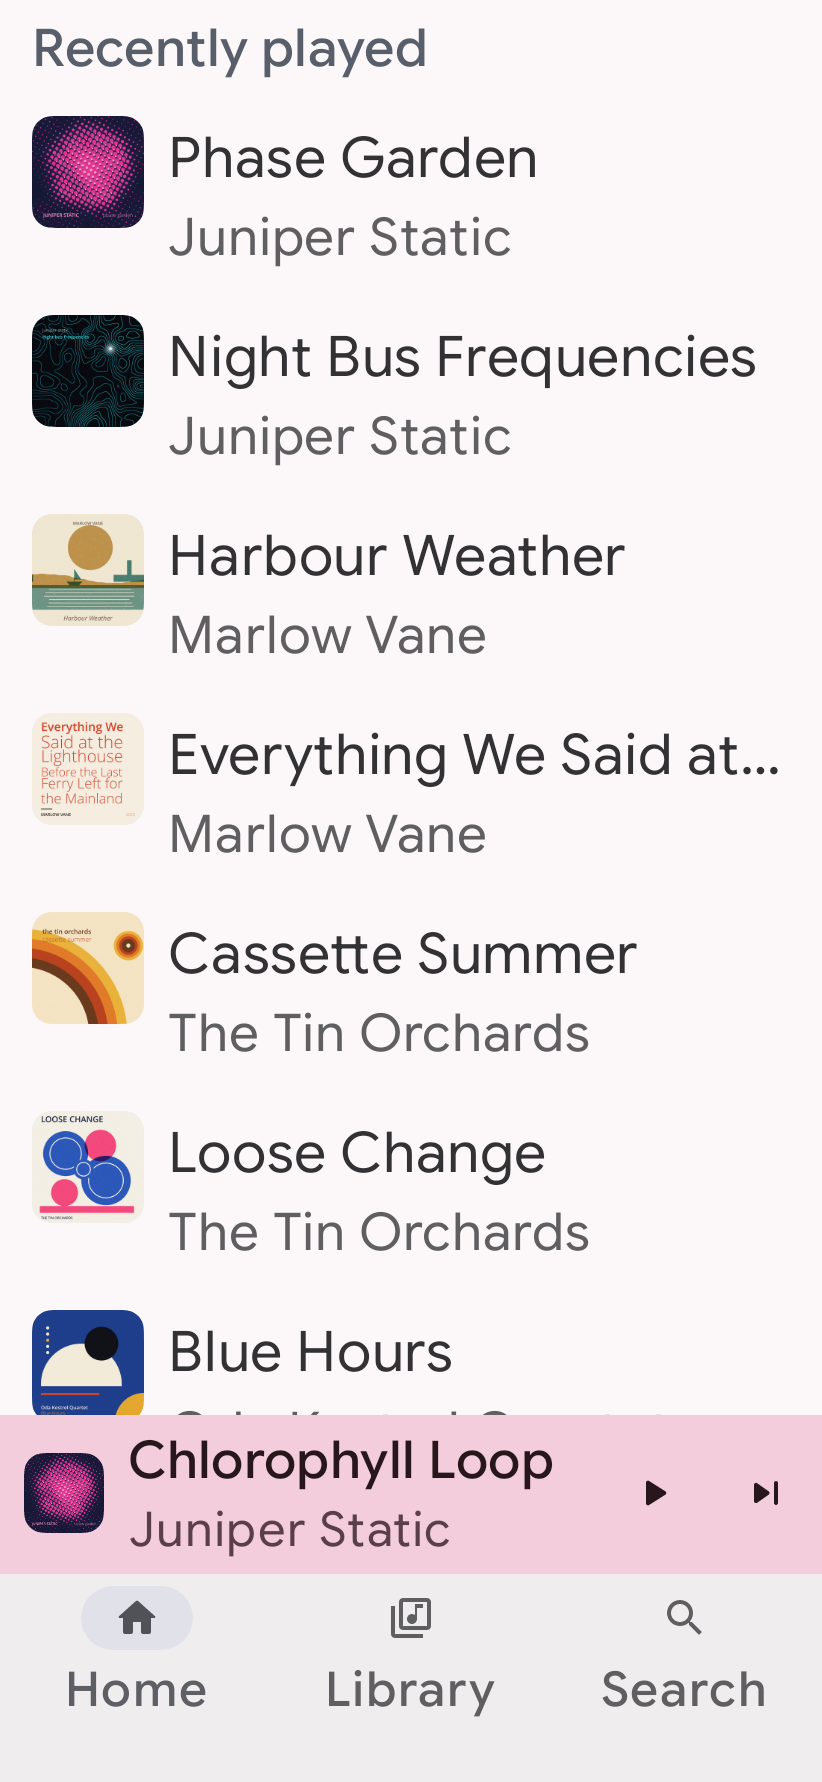
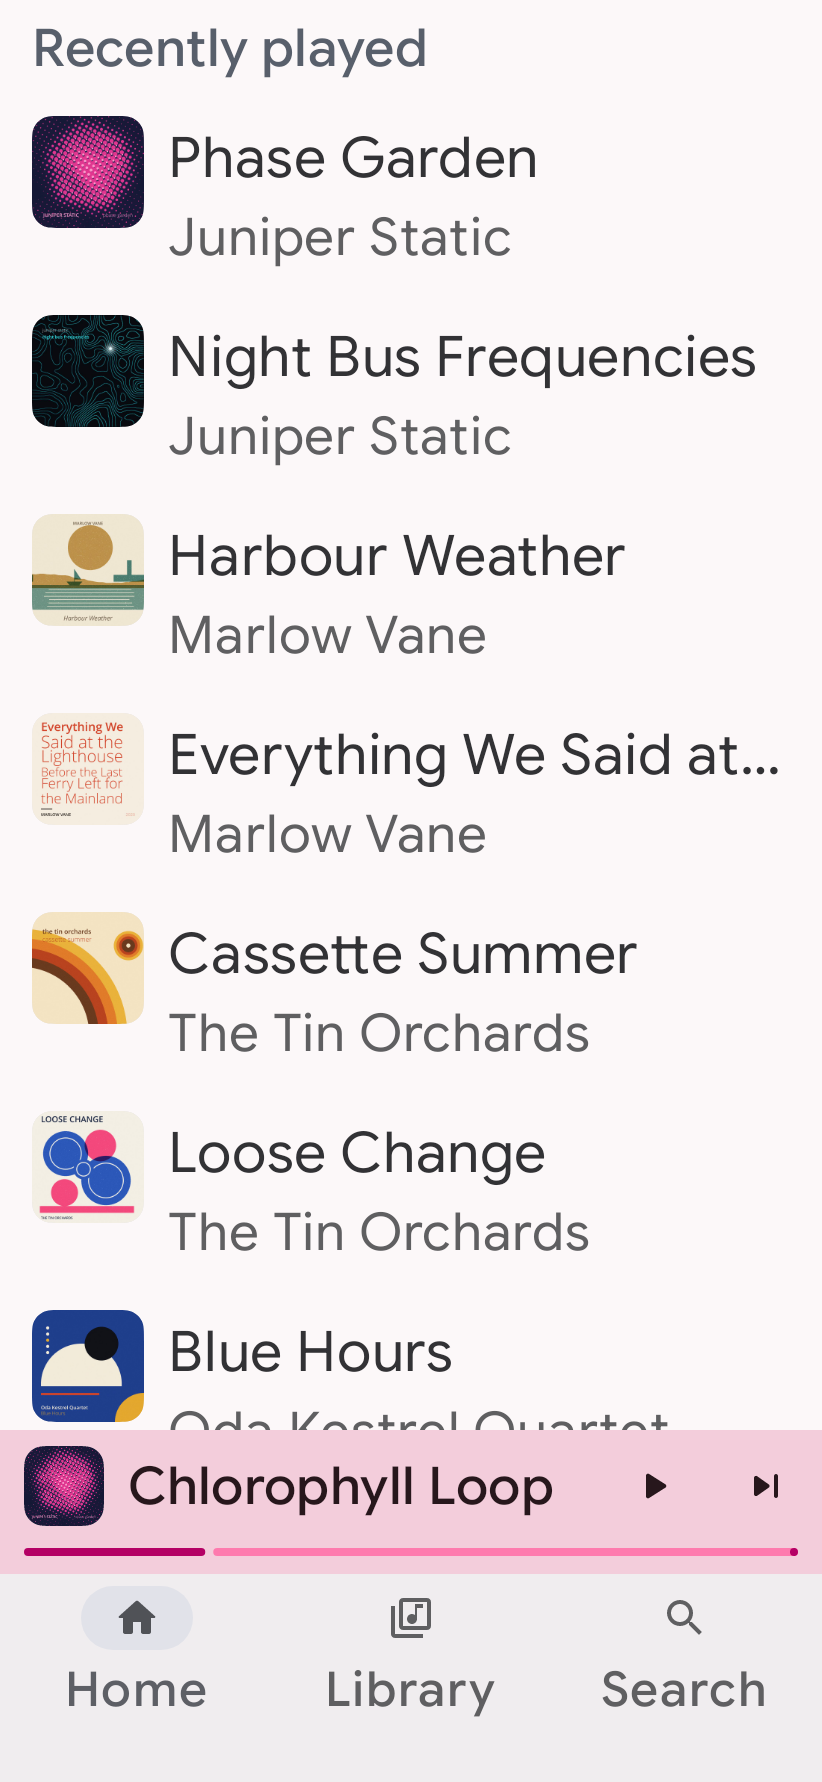
fix(player): the mini player keeps one height at large text, showing the title alone (#730)
s2MiniPlayerHeight() grew the dock by 36sp converted as one size, but Android 14+ scales text
nonlinearly, so at 200% the dock grew by 7dp while the two lines grew by about 26dp: the artist line
or the progress wave was cut. The dock is a fixed S2MiniPlayerHeight again, and from
S2LargeTextFontScale up the bar shows the title only and speaks "title, artist" (or the cast line).

LargeTextTest checks at fontScale 2 that the mini player keeps its height and draws its title whole,
and that Now Playing's elapsed and remaining times draw whole on a tall and a short phone.
Re-recorded docs/design/shell/phone-large-text-mini.png.

Changed region(s): [[0.0, 0.7716, 1.0, 0.8951]]

diff --git a/android/designsystem/src/main/java/com/simplecityapps/shuttle/designsystem/component/MiniPlayer.kt b/android/designsystem/src/main/java/com/simplecityapps/shuttle/designsystem/component/MiniPlayer.kt
@@ -21,19 +21,19 @@ import androidx.compose.ui.Modifier
 import androidx.compose.ui.graphics.Color
 import androidx.compose.ui.graphics.lerp
 import androidx.compose.ui.graphics.vector.ImageVector
-import androidx.compose.ui.platform.LocalDensity
 import androidx.compose.ui.res.stringResource
+import androidx.compose.ui.semantics.contentDescription
+import androidx.compose.ui.semantics.semantics
 import androidx.compose.ui.text.style.TextOverflow
 import androidx.compose.ui.tooling.preview.Preview
-import androidx.compose.ui.unit.Dp
 import androidx.compose.ui.unit.dp
-import androidx.compose.ui.unit.sp
 import com.simplecityapps.shuttle.designsystem.R
 import com.simplecityapps.shuttle.designsystem.preview.S2Preview
 import com.simplecityapps.shuttle.designsystem.theme.LocalRootColorScheme
 import com.simplecityapps.shuttle.designsystem.theme.S2IconSize
 import com.simplecityapps.shuttle.designsystem.theme.S2Spacing
 import com.simplecityapps.shuttle.designsystem.theme.artworkRole
+import com.simplecityapps.shuttle.designsystem.theme.isLargeText
 import com.simplecityapps.shuttle.fixtures.SampleLibrary
 
 /** How much of the artwork's secondaryContainer tints the mini player's fill. */
@@ -48,31 +48,20 @@ internal const val MiniPlayerArtworkTint = 0.25f
 @ReadOnlyComposable
 fun miniPlayerFill(root: Color, surface: (ColorScheme) -> Color): Color = artworkRole(root, lerp(surface(LocalRootColorScheme.current ?: MaterialTheme.colorScheme), MaterialTheme.colorScheme.secondaryContainer, MiniPlayerArtworkTint))
 
-/** The mini player's height at the default text size: the shell docks the player sheet's Mini level this far above the nav bar. */
-private val MiniPlayerBaseHeight = 72.dp
-
-/** The two text lines' height at the default text size (title and subtitle line heights, 20sp and 16sp). */
-private val MiniPlayerTextLines = 36.sp
-
 /**
- * The mini player's height: [MiniPlayerBaseHeight], plus whatever its two text lines grow by at the
- * user's text size, so the artist line isn't cut at 200% text. The shell docks the player sheet's Mini
- * level this far above the nav bar.
+ * The mini player's height, whatever the text size: the shell docks the player sheet's Mini level this far
+ * above the nav bar. At large text the bar keeps one line, the title, so it never outgrows this (#730).
  */
-@Composable
-@ReadOnlyComposable
-fun s2MiniPlayerHeight(): Dp {
-    val textGrowth = with(LocalDensity.current) { MiniPlayerTextLines.toDp() - MiniPlayerTextLines.value.dp }
-    return MiniPlayerBaseHeight + textGrowth.coerceAtLeast(0.dp)
-}
+val S2MiniPlayerHeight = 72.dp
 
 /**
  * The collapsed player above the nav bar (compact) or docked under the content (expanded): the
  * song's [artwork], [title] and [subtitle] ("artist • album"), a plain [S2PlayPauseIconButton]
  * (#738), skip next, and the [S2PlaybackProgress] wave along the bottom edge. [buffering] shows the
  * play button's `LoadingIndicator` and an indeterminate wave. While [castingTo] names a Cast device,
- * the subtitle says the song is playing there; the app doesn't pass it yet (#795). Tapping the rest
- * of the bar ([onClick]) expands the player.
+ * the subtitle says the song is playing there; the app doesn't pass it yet (#795). At large text
+ * ([isLargeText]) only the title shows, and the second line is spoken with it, so the bar keeps its
+ * [S2MiniPlayerHeight]. Tapping the rest of the bar ([onClick]) expands the player.
  */
 @Composable
 fun S2MiniPlayer(
@@ -109,28 +98,24 @@ fun S2MiniPlayer(
                 verticalAlignment = Alignment.CenterVertically,
             ) {
                 artwork?.invoke()
-                Column(Modifier.weight(1f)) {
+                val castLine = castingTo?.let { stringResource(R.string.ds_playing_on, it) }
+                val largeText = isLargeText()
+                // At large text the second line would push the bar past its height, so it's only spoken.
+                val spoken = if (largeText) Modifier.semantics { contentDescription = listOfNotNull(title, castLine ?: subtitle.ifEmpty { null }).joinToString() } else Modifier
+                Column(Modifier.weight(1f).then(spoken)) {
                     Text(title, style = MaterialTheme.typography.titleSmall, maxLines = 1, overflow = TextOverflow.Ellipsis)
-                    if (castingTo != null) {
-                        val castColor = colors.primary
-                        Row(horizontalArrangement = Arrangement.spacedBy(S2Spacing.xsmall), verticalAlignment = Alignment.CenterVertically) {
-                            Icon(Icons.Rounded.Cast, contentDescription = null, tint = castColor, modifier = Modifier.size(S2IconSize.small))
-                            Text(
-                                stringResource(R.string.ds_playing_on, castingTo),
-                                style = MaterialTheme.typography.bodySmall,
-                                color = castColor,
-                                maxLines = 1,
-                                overflow = TextOverflow.Ellipsis,
-                            )
+                    when {
+                        largeText -> Unit
+
+                        castLine != null -> {
+                            val castColor = colors.primary
+                            Row(horizontalArrangement = Arrangement.spacedBy(S2Spacing.xsmall), verticalAlignment = Alignment.CenterVertically) {
+                                Icon(Icons.Rounded.Cast, contentDescription = null, tint = castColor, modifier = Modifier.size(S2IconSize.small))
+                                Text(castLine, style = MaterialTheme.typography.bodySmall, color = castColor, maxLines = 1, overflow = TextOverflow.Ellipsis)
+                            }
                         }
-                    } else {
-                        Text(
-                            subtitle,
-                            style = MaterialTheme.typography.bodySmall,
-                            color = MaterialTheme.colorScheme.onSurfaceVariant,
-                            maxLines = 1,
-                            overflow = TextOverflow.Ellipsis,
-                        )
+
+                        else -> Text(subtitle, style = MaterialTheme.typography.bodySmall, color = colors.onSurfaceVariant, maxLines = 1, overflow = TextOverflow.Ellipsis)
                     }
                 }
                 S2PlayPauseIconButton(playing, onPlayPause, buffering = buffering)

diff --git a/android/app/src/main/java/com/simplecityapps/shuttle/ui/shell/AppShell.kt b/android/app/src/main/java/com/simplecityapps/shuttle/ui/shell/AppShell.kt
@@ -73,12 +73,12 @@ import androidx.navigation3.runtime.rememberSaveableStateHolderNavEntryDecorator
 import androidx.navigation3.scene.SinglePaneSceneStrategy
 import androidx.navigation3.ui.NavDisplay
 import com.simplecityapps.shuttle.R
+import com.simplecityapps.shuttle.designsystem.component.S2MiniPlayerHeight
 import com.simplecityapps.shuttle.designsystem.component.S2NavItem
 import com.simplecityapps.shuttle.designsystem.component.S2NavigationBar
 import com.simplecityapps.shuttle.designsystem.component.S2NavigationRail
 import com.simplecityapps.shuttle.designsystem.component.S2SnackbarHost
 import com.simplecityapps.shuttle.designsystem.component.miniPlayerFill
-import com.simplecityapps.shuttle.designsystem.component.s2MiniPlayerHeight
 import com.simplecityapps.shuttle.designsystem.theme.ArtworkSchemeStyle
 import com.simplecityapps.shuttle.designsystem.theme.ArtworkTheme
 import com.simplecityapps.shuttle.ui.actions.NavigationTarget
@@ -186,7 +186,7 @@ private class PlayerContent(
 @Composable
 private fun rememberSnackbarBottomPadding(player: PlayerSheetState): Dp = if (player.mode == PlayerMode.Pane) {
     val navigationBars = WindowInsets.navigationBars.asPaddingValues().calculateBottomPadding()
-    if (player.level == PlayerLevel.Mini) navigationBars + s2MiniPlayerHeight() else navigationBars
+    if (player.level == PlayerLevel.Mini) navigationBars + S2MiniPlayerHeight else navigationBars
 } else {
     rememberContentBottomPadding(player)
 }
@@ -246,7 +246,7 @@ private fun CompactShell(
 ) {
     val density = LocalDensity.current
     val navigationBarBottom = WindowInsets.navigationBars.getBottom(density)
-    val miniHeight = with(density) { s2MiniPlayerHeight().toPx() }
+    val miniHeight = with(density) { S2MiniPlayerHeight.toPx() }
     val sheetVisible = rememberSheetVisible(player)
     val bottomPadding = rememberContentBottomPadding(player)
     val navigationTarget = selectedTab != null
@@ -317,7 +317,7 @@ private fun RailSheetShell(
 ) {
     val density = LocalDensity.current
     val navigationBarBottom = WindowInsets.navigationBars.getBottom(density)
-    val miniHeight = with(density) { s2MiniPlayerHeight().toPx() }
+    val miniHeight = with(density) { S2MiniPlayerHeight.toPx() }
     val sheetVisible = rememberSheetVisible(player)
     val bottomPadding = rememberContentBottomPadding(player)
     val coversRail = layout.width == ShellWidth.Expanded

diff --git a/android/app/src/test/java/com/simplecityapps/shuttle/ui/shell/LargeTextTest.kt b/android/app/src/test/java/com/simplecityapps/shuttle/ui/shell/LargeTextTest.kt
@@ -1,0 +1,62 @@
+package com.simplecityapps.shuttle.ui.shell
+
+import androidx.activity.ComponentActivity
+import androidx.compose.ui.test.junit4.createAndroidComposeRule
+import com.simplecityapps.shuttle.designsystem.component.S2MiniPlayerHeight
+import com.simplecityapps.shuttle.ui.shell.player.PlayerTestTags
+import io.kotest.matchers.shouldBe
+import org.junit.Rule
+import org.junit.Test
+import org.junit.runner.RunWith
+import org.robolectric.RobolectricTestRunner
+import org.robolectric.annotation.Config
+
+/** The player's chrome at 200% text, where fixed heights used to cut lines through their glyphs (#730). */
+@RunWith(RobolectricTestRunner::class)
+@Config(qualifiers = "w411dp-h891dp-xhdpi")
+class LargeTextTest {
+
+    @get:Rule
+    val composeTestRule = createAndroidComposeRule<ComponentActivity>()
+
+    private val robot = AppShellRobot(composeTestRule)
+
+    @Test
+    @Config(fontScale = 2f)
+    fun `the mini player keeps its height, shows the title whole and speaks the artist`() {
+        robot.setContent()
+
+        robot.miniPlayerHeight() shouldBe S2MiniPlayerHeight
+        robot.textClipping("First song", PlayerTestTags.MiniPlayer) shouldBe null
+        robot.showsText("Juniper Static", PlayerTestTags.MiniPlayer) shouldBe false
+        robot.speaksInside("First song, Juniper Static", PlayerTestTags.MiniPlayer) shouldBe true
+    }
+
+    @Test
+    fun `at the default text size the mini player shows the artist under the title`() {
+        robot.setContent()
+
+        robot.miniPlayerHeight() shouldBe S2MiniPlayerHeight
+        robot.textClipping("Juniper Static", PlayerTestTags.MiniPlayer) shouldBe null
+    }
+
+    @Test
+    @Config(fontScale = 2f)
+    fun `Now Playing's elapsed and remaining times draw whole`() {
+        robot.setContent()
+        robot.tapMiniPlayer()
+
+        robot.textClipping("1:00", PlayerTestTags.Transport) shouldBe null
+        robot.textClipping("-2:00", PlayerTestTags.Transport) shouldBe null
+    }
+
+    @Test
+    @Config(qualifiers = "w360dp-h640dp-xhdpi", fontScale = 2f)
+    fun `on a short phone Now Playing's times still draw whole`() {
+        robot.setContent()
+        robot.tapMiniPlayer()
+
+        robot.textClipping("1:00", PlayerTestTags.Transport) shouldBe null
+        robot.textClipping("-2:00", PlayerTestTags.Transport) shouldBe null
+    }
+}

diff --git a/android/app/src/test/java/com/simplecityapps/shuttle/ui/shell/AppShellRobot.kt b/android/app/src/test/java/com/simplecityapps/shuttle/ui/shell/AppShellRobot.kt
@@ -55,6 +55,7 @@ import androidx.compose.ui.test.swipeLeft
 import androidx.compose.ui.test.swipeRight
 import androidx.compose.ui.test.swipeUp
 import androidx.compose.ui.test.up
+import androidx.compose.ui.text.TextLayoutResult
 import androidx.compose.ui.unit.Dp
 import androidx.compose.ui.unit.dp
 import androidx.core.graphics.Insets
@@ -728,6 +729,31 @@ class AppShellRobot(
 
     /** The mini player's bottom edge, as drawn, from the top of the shell. */
     fun miniPlayerBottom(): Dp = rule.onNodeWithTag(PlayerTestTags.MiniPlayer).getBoundsInRoot().bottom
+
+    /**
+     * Why [text], inside the node tagged [tag], doesn't draw whole, or null when it does: its lines must fit the height it
+     * was laid out in, and no ancestor may cut it off (#730).
+     */
+    fun textClipping(text: String, tag: String): String? {
+        val node = rule.onNode(hasText(text) and hasAnyAncestor(hasTestTag(tag)), useUnmergedTree = true).fetchSemanticsNode()
+        val layouts = mutableListOf<TextLayoutResult>()
+        node.config[SemanticsActions.GetTextLayoutResult].action?.invoke(layouts)
+        val layout = layouts.single()
+        return when {
+            layout.size.height < layout.multiParagraph.height -> "\"$text\" is ${layout.multiParagraph.height}px of lines in ${layout.size.height}px"
+            node.boundsInRoot.height < node.size.height -> "\"$text\" shows ${node.boundsInRoot.height}px of ${node.size.height}px"
+            else -> null
+        }
+    }
+
+    /** Whether [text] shows inside the node tagged [tag]. */
+    fun showsText(text: String, tag: String): Boolean = rule.onAllNodes(hasText(text) and hasAnyAncestor(hasTestTag(tag)), useUnmergedTree = true).fetchSemanticsNodes().isNotEmpty()
+
+    /** Whether something inside the node tagged [tag] is spoken with [text] in its description. */
+    fun speaksInside(text: String, tag: String): Boolean = rule.onAllNodes(hasContentDescription(text, substring = true) and hasAnyAncestor(hasTestTag(tag))).fetchSemanticsNodes().isNotEmpty()
+
+    /** The mini player's height, as laid out. */
+    fun miniPlayerHeight(): Dp = rule.onNodeWithTag(PlayerTestTags.MiniPlayer).getBoundsInRoot().let { it.bottom - it.top }
 
     /** How far from the shell's left edge [text] starts. */
     fun textLeft(text: String): Dp = rule.onNodeWithText(text).getBoundsInRoot().left

diff --git a/android/app/src/main/java/com/simplecityapps/shuttle/ui/shell/player/MiniPlayer.kt b/android/app/src/main/java/com/simplecityapps/shuttle/ui/shell/player/MiniPlayer.kt
@@ -31,7 +31,7 @@ import androidx.compose.ui.unit.dp
 import com.simplecityapps.shuttle.R
 import com.simplecityapps.shuttle.designsystem.R as DesignR
 import com.simplecityapps.shuttle.designsystem.component.S2MiniPlayer
-import com.simplecityapps.shuttle.designsystem.component.s2MiniPlayerHeight
+import com.simplecityapps.shuttle.designsystem.component.S2MiniPlayerHeight
 
 /** How far the mini player must be swiped sideways to skip. */
 private val SkipSwipeThreshold = 72.dp
@@ -50,7 +50,7 @@ internal fun MiniPlayer(
     onClick: () -> Unit,
     modifier: Modifier = Modifier,
 ) {
-    Box(modifier = modifier.fillMaxWidth().height(s2MiniPlayerHeight()).testTag(PlayerTestTags.MiniPlayer)) {
+    Box(modifier = modifier.fillMaxWidth().height(S2MiniPlayerHeight).testTag(PlayerTestTags.MiniPlayer)) {
         val current = player.current
         if (interactive && current != null) {
             val previousLabel = stringResource(DesignR.string.ds_previous)
